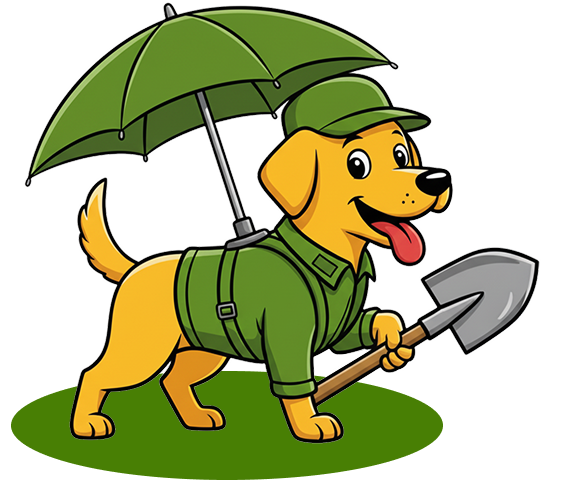
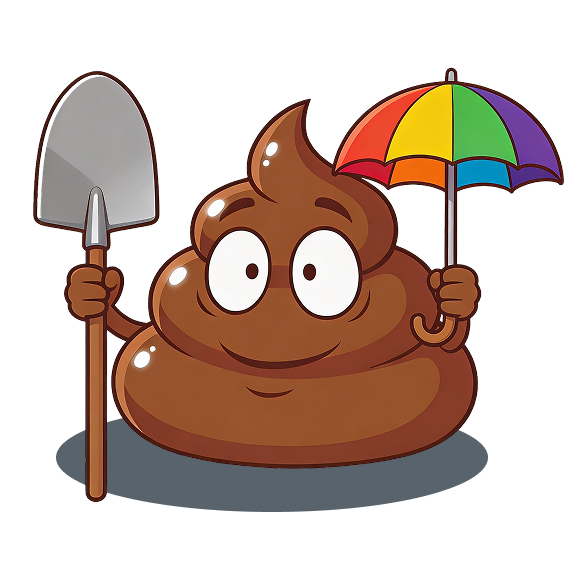
update

diff --git a/pooper-scoop/src/app/globals.css b/pooper-scoop/src/app/globals.css
@@ -6,10 +6,10 @@
 :root {
   --textcolor-white: #ffffff;
   --textcolor-black: #000000;
-  --brandcolor-darkgreen: #3e6c02;
-  --brandcolor-midgreen: #487f04;
-  --brandcolor-lightgreen: #74a32b;
-  --brandcolor-red: #d11d1d;
+  --brandcolor-darkgrey: #59636C;
+  --brandcolor-midgrey: #9BA6AF;
+  --brandcolor-lightgrey: #C7CDD5;
+  --brandcolor-red: #000000;
   --brandcolor-darkblue: #002d49;
   --brandcolor-lightblue: #02418a;
   --brandcolor-darkyellow: #ff9201;
@@ -69,9 +69,9 @@
 .HERO.bg-custom-gradient.tiled-background-image {
   position: relative;
   background-image: linear-gradient(90deg,
-      #3e6c02 0%,
-      #487f04 40%,
-      #74a32b 100%);
+      var(--brandcolor-darkgrey) 0%,
+      var(--brandcolor-midgrey) 40%,
+      var(--brandcolor-lightgrey) 100%);
   background-repeat: no-repeat;
   background-position: center;
   background-size: cover;
@@ -81,9 +81,9 @@
 .bg-custom-gradient {
   position: relative;
   background-image: linear-gradient(90deg,
-      #3e6c02 0%,
-      #487f04 40%,
-      #74a32b 100%);
+      var(--brandcolor-darkgrey) 0%,
+      var(--brandcolor-midgrey) 40%,
+      var(--brandcolor-lightgrey) 100%);
   overflow: hidden;
 
 }

diff --git a/pooper-scoop/src/components/RWhyChoose.tsx b/pooper-scoop/src/components/RWhyChoose.tsx
@@ -31,7 +31,7 @@ export default function ReusableWhyChoose({
   items,
   showGrassFooter = true,
   grassColor = 'black',
-  dogImageUrl = "/images/avif/mascottes/grass-divider-dog-shovel.avif",
+  dogImageUrl = "/images/mascottes/grass-divider-dog-shovel.png",
   dogImageAlt = "dog with a shovel",
   white = false,
   grassFooterHeight = 90,
@@ -96,7 +96,7 @@ export default function ReusableWhyChoose({
           style={{ backgroundImage: `url(${grassImageUrl})` }}
         >
           {dogImageUrl && (
-            <div className="dog hidden lg:block absolute bottom-0 left-[20%] z-10">
+            <div className="dog hidden lg:block absolute bottom-[-16px] left-[20%] z-10">
               <img src={dogImageUrl} alt={dogImageAlt} className="h-[200px] w-auto"/>
             </div>
           )}

diff --git a/pooper-scoop/src/components/Navbar.tsx b/pooper-scoop/src/components/Navbar.tsx
@@ -43,7 +43,7 @@ export default function Navbar() {
                 {/* logo */}
                 <div>
                     <Link draggable={false} href="/" className="block logo-hover">
-                        <img draggable={false} src="/images/avif/logo.avif" alt="Logo" className="w-30 h-auto " />
+                        <img draggable={false} src="/images/logo.png" alt="Logo" className="w-30 h-auto " />
                     </Link>
                 </div>
 

diff --git a/pooper-scoop/src/app/sections/home-sections/RemovalCompany.tsx b/pooper-scoop/src/app/sections/home-sections/RemovalCompany.tsx
@@ -85,7 +85,7 @@ export default function RemovalCompany() {
                 fetchPriority="high"
               />
             </div>
-            <img className="w-60 absolute bottom-0" src="/images/avif/home-page/dog.avif" alt="" />
+            <img className="w-40 absolute bottom-0" src="/images/home-page/poop.png" alt="" />
           </div>
         </div>
       </div>

diff --git a/pooper-scoop/src/app/sections/home-sections/Promo.tsx b/pooper-scoop/src/app/sections/home-sections/Promo.tsx
@@ -67,7 +67,7 @@ export default function Commercial() {
           </div>
           <div className="h-full flex-1 flex flex-row-reverse justify-center">
             <img
-              src="/images/avif/mascottes/test-2.avif"
+              src="/images/mascottes/test-2.png"
               alt="Promo"
               className="h-full w-auto"
             />
